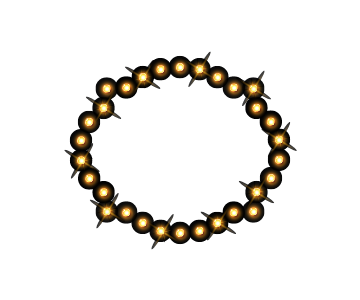
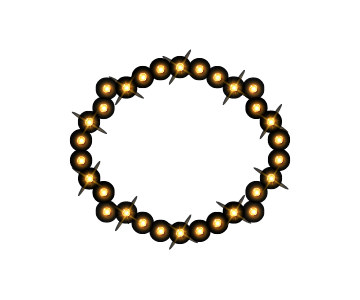
standard win animation

diff --git a/src/components/Scene/useWinAnimation.js b/src/components/Scene/useWinAnimation.js
@@ -4,22 +4,30 @@ import { ang2Rad } from "../../utils/math";
 export default function useWinAnimation() {
   const standardWin = (app) => {
     const container = new PIXI.Container();
-    container.x = window.innerWidth / 2;
-    container.y = 270;
     container.pivot.set(0.5);
-    container.blendMode = PIXI.BLEND_MODES.SCREEN;
+    // container.blendMode = PIXI.BLEND_MODES.SCREEN;
+    gsap.fromTo(
+      container,
+      {
+        x: window.innerWidth / 2,
+        y: 310,
+      },
+      {
+        y: 260,
+        duration: 1,
+      }
+    );
     app.stage.addChild(container);
 
     const shadow = new PIXI.Sprite.from("assets/image/win-shadow.png");
+
     shadow.width = 260;
     shadow.height = 210;
     shadow.x = 0;
     shadow.y = 0;
     shadow.anchor.set(0.5);
     shadow.blendMode = PIXI.BLEND_MODES.MULTIPLY;
-
     container.addChild(shadow);
-
     const wood = new PIXI.Sprite.from("assets/image/win-wood.png");
     wood.width = 220;
     wood.height = 160;
@@ -28,24 +36,31 @@ export default function useWinAnimation() {
     wood.anchor.set(0.5);
     container.addChild(wood);
 
-    const borderLight = new PIXI.Sprite.from("assets/image/light1.png");
+    const path = "assets/image/light";
+    const frames = [];
+    for (let i = 1; i < 4; i++) {
+      const texture = PIXI.Texture.from(path + i + ".png");
+      frames.push(texture);
+    }
+    const borderLight = new PIXI.AnimatedSprite(frames);
     borderLight.width = 370;
     borderLight.height = 265;
     borderLight.x = 0;
     borderLight.y = 0;
     borderLight.anchor.set(0.5);
+    borderLight.loop = true;
+    borderLight.animationSpeed = 0.05;
     borderLight.blendMode = PIXI.BLEND_MODES.SCREEN;
+    borderLight.play();
 
     container.addChild(borderLight);
-    const mask = new PIXI.Graphics();
-    container.addChild(mask);
 
     const winText = new PIXI.Text("YOU WIN", {
       fontFamily: "CircularStd",
       dropShadow: true,
       fontWeight: 900,
       dropShadowAngle: ang2Rad(90),
-      dropShadowColor: "#FAFD66",
+      dropShadowColor: "#ff0000",
       dropShadowDistance: 3,
       fill: "#FFCC01",
       fontSize: 44,
@@ -55,20 +70,55 @@ export default function useWinAnimation() {
     // winText.mask = mask;
     container.addChild(winText);
 
-    mask.beginFill(0xffff00);
-    mask.drawRect(
-      winText.x - winText.width / 2,
-      winText.y - winText.height / 2,
-      winText.width * 0.75,
-      winText.height
-    );
+    // const g = new PIXI.Graphics();
+    // g.beginFill(0xffff00);
+    // g.drawCircle(50, 0, 100);
+    // g.endFill();
+    // g.filters = [new PIXI.filters.BlurFilter(50)];
+    // app.stage.addChild(g);
+    const g = new PIXI.Graphics();
+    g.beginFill(0xffffff);
+    g.drawRect(0, 0, 50, 20);
+    g.endFill();
+    g.beginFill(0xffffff, 0.9);
+    g.drawRect(50, 0, 1, 20);
+    g.endFill();
+    g.beginFill(0xffffff, 0.8);
+    g.drawRect(51, 0, 1, 20);
+    g.endFill();
+    g.beginFill(0xffffff, 0.7);
+    g.drawRect(52, 0, 1, 20);
+    g.endFill();
+    g.beginFill(0xffffff, 0.6);
+    g.drawRect(53, 0, 1, 20);
+    g.endFill();
+    g.beginFill(0xffffff, 0.5);
+    g.drawRect(54, 0, 1, 20);
+    g.endFill();
+    g.beginFill(0xffffff, 0.4);
+    g.drawRect(55, 0, 1, 20);
+    g.endFill();
+    g.beginFill(0xffffff, 0.3);
+    g.drawRect(56, 0, 1, 20);
+    g.endFill();
+    // g.filters = [new PIXI.filters.BlurFilter(10)];
+    app.stage.addChild(g);
 
-    mask.endFill();
-    // gsap.to(mask, {
-    //   width: 300,
-    //   duration: 2,
-    //   ease: "none",
-    // });
+    const maskTexture = app.renderer.generateTexture(g);
+    const mask = new PIXI.Sprite(maskTexture);
+    mask.x = winText.x - winText.width / 2;
+    mask.y = winText.y - winText.height / 2;
+    mask.width = winText.width + 50;
+    mask.height = winText.height;
+    mask.anchor.set(0);
+    // mask.alpha = 0.6;
+    container.addChild(mask);
+    winText.mask = mask;
+    gsap.from(mask, {
+      width: 0,
+      duration: 2,
+      ease: "none",
+    });
     const earn = 720;
     const earnText = new PIXI.Text(`$${earn}`, {
       fontFamily: "CircularStd",
@@ -86,6 +136,7 @@ export default function useWinAnimation() {
     const textObj = { tex: earn };
     gsap.from(textObj, {
       duration: 2,
+      delay: 1,
       tex: 0,
       onUpdate: () => {
         earnText.text = `$` + Math.floor(textObj.tex);
